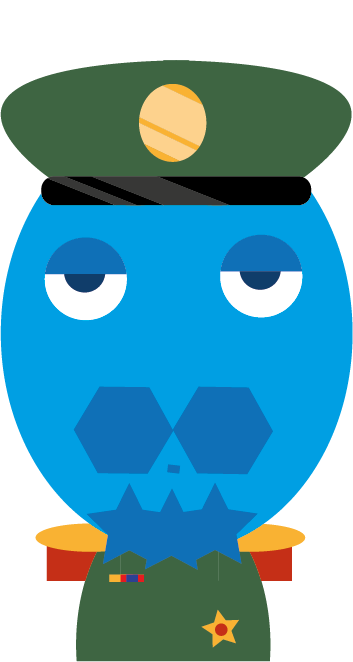
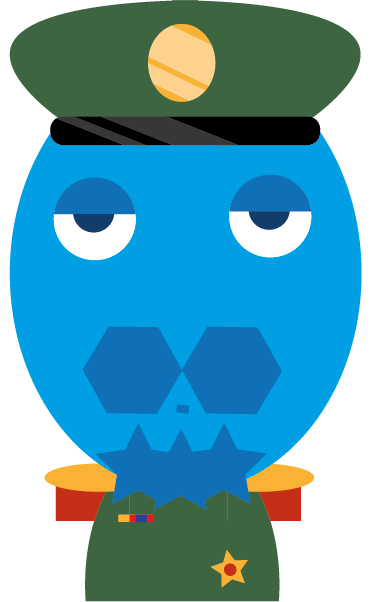
Hover animation added

diff --git a/Website/wwwroot/css/site.css b/Website/wwwroot/css/site.css
@@ -5,6 +5,7 @@ html {
 }
 
 body {
+    overflow: hidden;
     background-image: url(../images/home_page.png);
     background-repeat: no-repeat;
     background-size: cover;
@@ -27,7 +28,14 @@ section
 
 
 h1 {
-    font-size: 35px;
+    font-size: 50px;
+    color: white;
+    text-shadow: 2px 2px black;
+    transition: transform 0.5s;
+}
+
+h1:hover {
+    transform: scale(1.5);
 }
 
 h3 {
@@ -47,10 +55,19 @@ h3 {
     background-color: rgba(196, 196, 196, 80%);
     padding: 30px;
     border-radius: 20px;
-    margin: 25px;
+    transition: transform 0.5s;
+}
+.form:hover {
+    transform:scale(1.2);
+}
+.flex-inner {
+    display: flex;
+    flex-direction: column;
+    justify-content: center;
+    align-items: center;
 }
 
-.flex-inner {
+.flexaside-innner {
     display: flex;
     flex-direction: column;
     justify-content: center;
@@ -99,26 +116,36 @@ input {
 }
 
 #left {
-    display: flex;
-    flex-direction: column;
     grid-area: 1 / 1 / 6 / 2;
 }
 
 #right {
-    display: flex;
-    flex-direction: column;
     grid-area: 1 / 5 / 6 / 6;
 }
 .characters {
-    width: 70%;
+    width: 80%;
+    margin:1px;
 }
 #left .characters {
-    transform: rotate(20deg);
+    transform: rotate(30deg);
+    transition: 0.3s;
 }
 
 #right .characters {
-    transform: rotate(-20deg);
+    transform: rotate(330deg);
+    transition: 0.3s;
 }
+
+
+#left .characters:hover {
+    transform: rotate(15deg);
+}
+
+#right .characters:hover {
+    transform: rotate(345deg);
+}
+
+
 
 
 /*desktop*/
